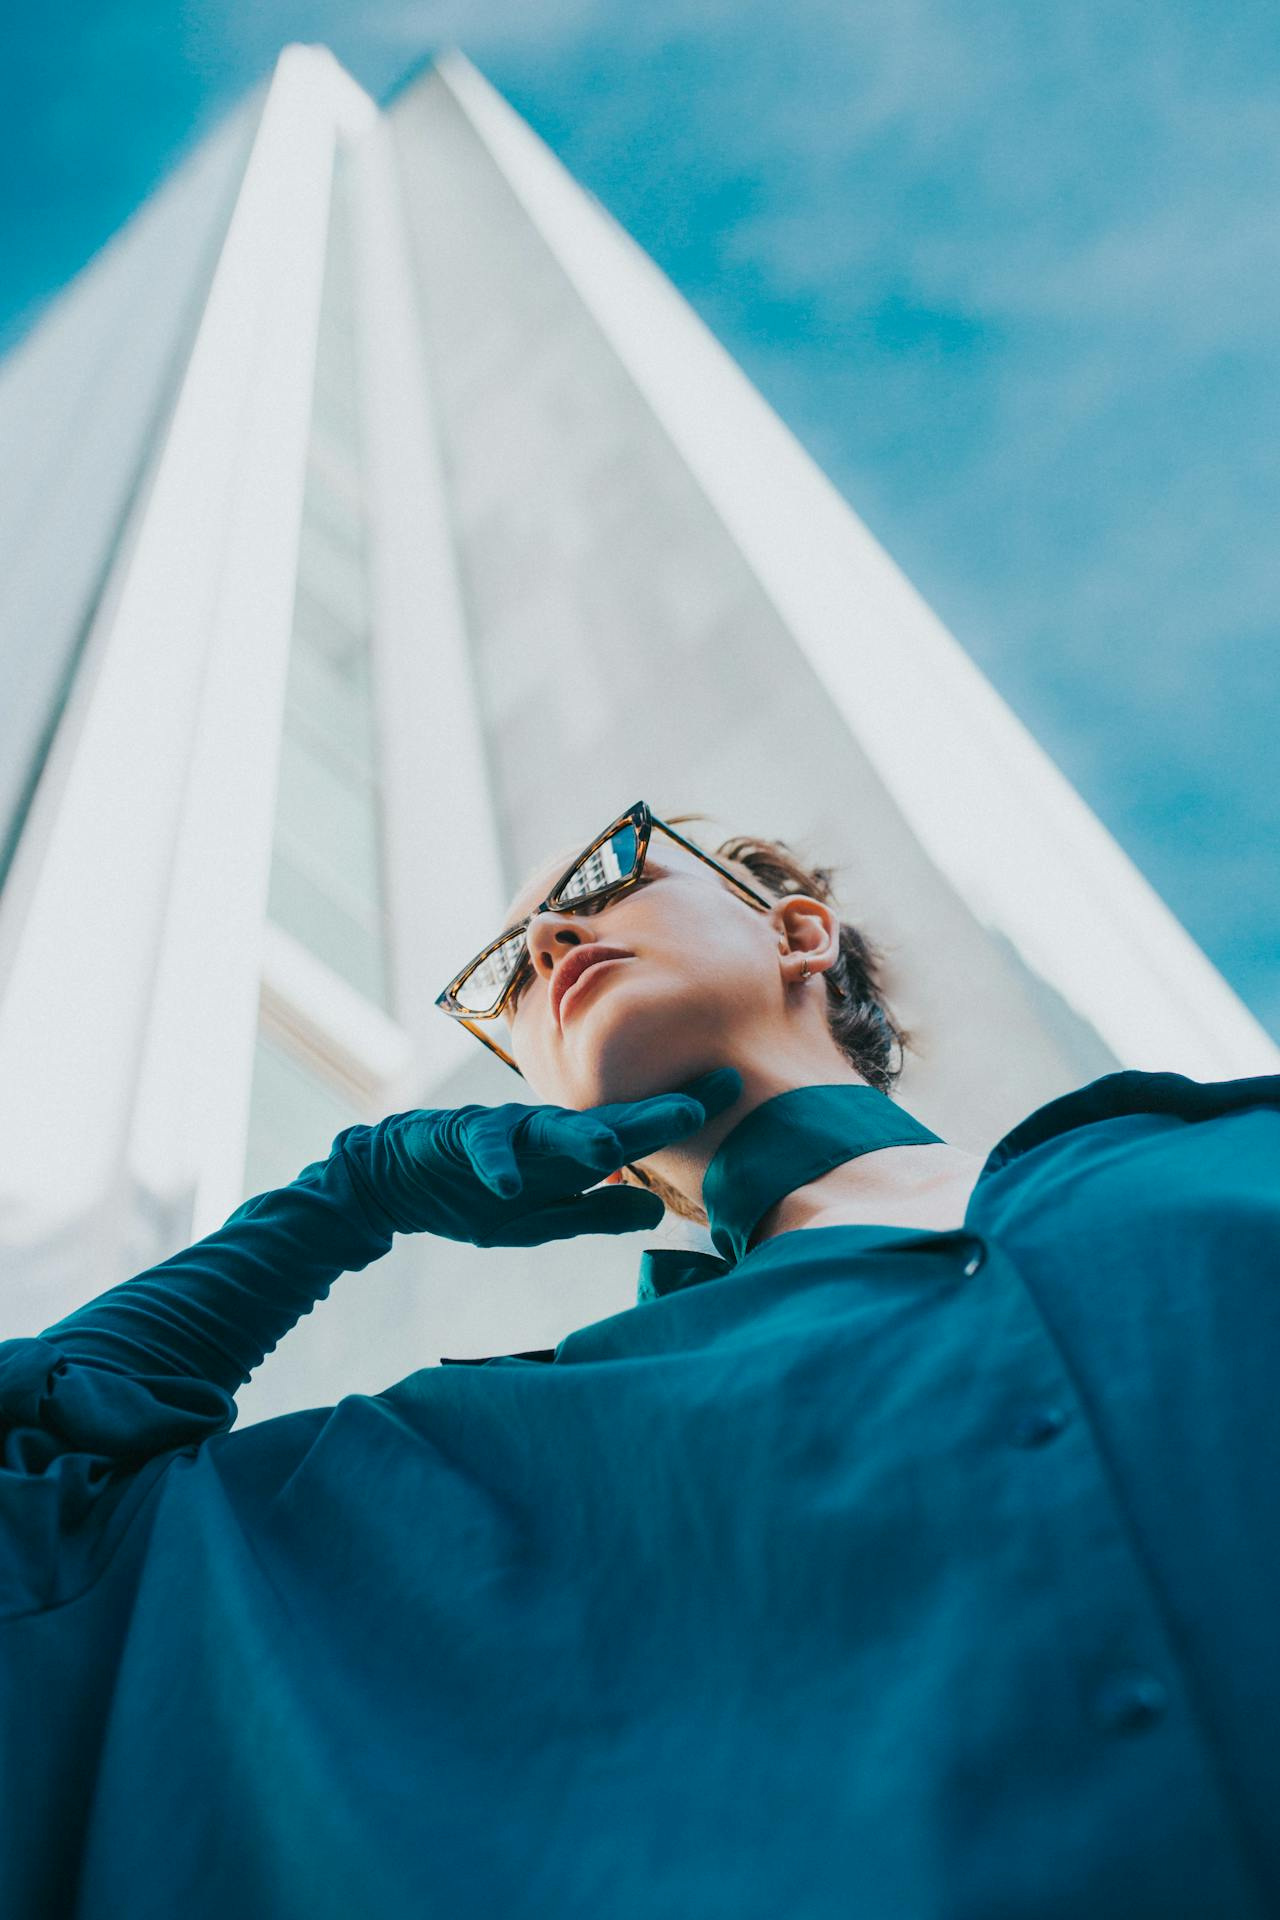
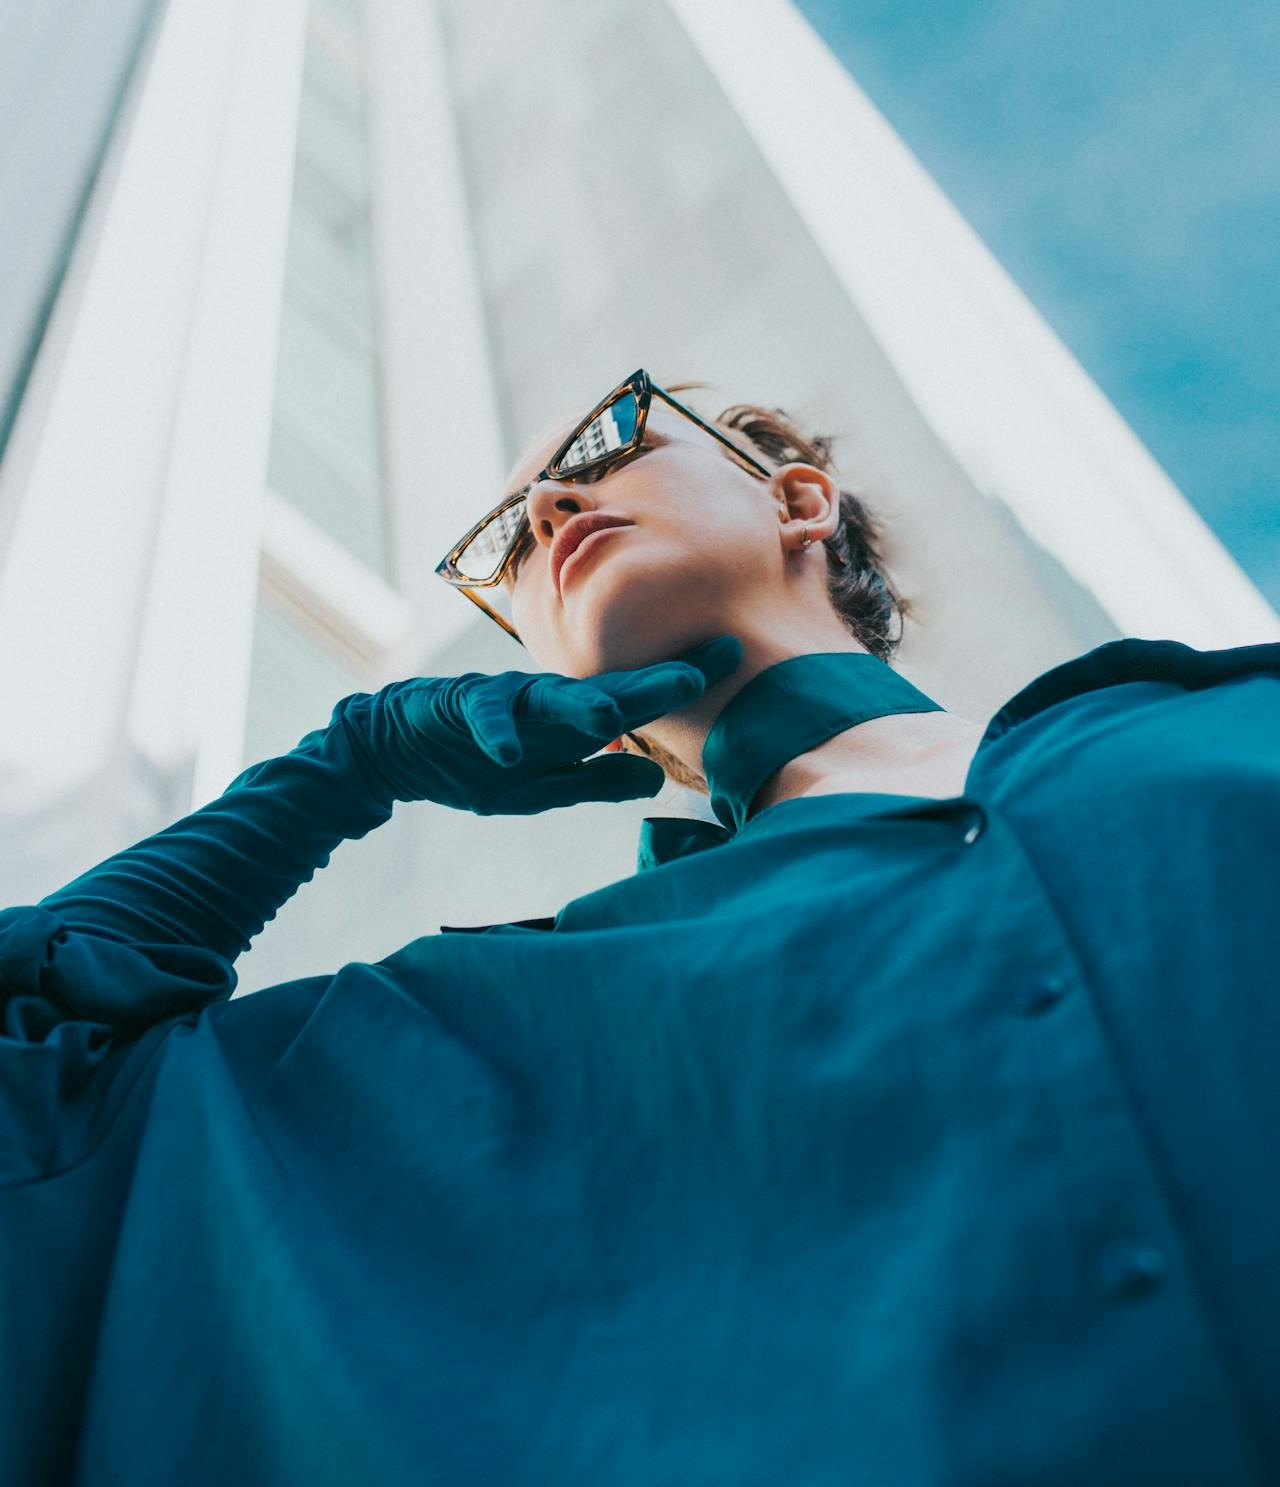
continuando o projeto

diff --git a/estilos/style.css b/estilos/style.css
@@ -1,2 +1,43 @@
 @charset "UTF-8";
 
+
+/* cores: #025E73, #0396A6, #F0F2F2
+ */
+
+*{
+    font-family: system-ui, -apple-system, BlinkMacSystemFont, 'Segoe UI', Roboto, Oxygen, Ubuntu, Cantarell, 'Open Sans', 'Helvetica Neue', sans-serif;
+    padding: 0px;
+    margin: 0px;
+    box-sizing: border-box;
+}
+
+
+body, html{
+    background-color: #025E73;
+    height: 100vh;
+    width: 100vw;
+}
+
+main{
+    position: relative;
+    height: 100vh;
+    width: 100vw;
+}
+
+section#Login {
+    position: absolute;
+    top: 50%;
+    left: 50%;
+    transform: translate(-50%, -50%);
+
+    background-color: #F0F2F2;
+    width: 250px;
+    height: 500px;
+    border-radius: 20px;
+}
+
+section#Login > div#imagem {
+    background-color:#025E73 url(../imagens/fashion.jpg) no-repeat;
+    background-size: cover;
+    height: 200px;
+}

diff --git a/index.html b/index.html
@@ -9,7 +9,9 @@
   <body>
     <main>
       <section id="Login">
-        <div id="imagem">Foto</div>
+        <div id="imagem">
+         
+        </div>
         <div id="formulario">
           <h1>
             Login
